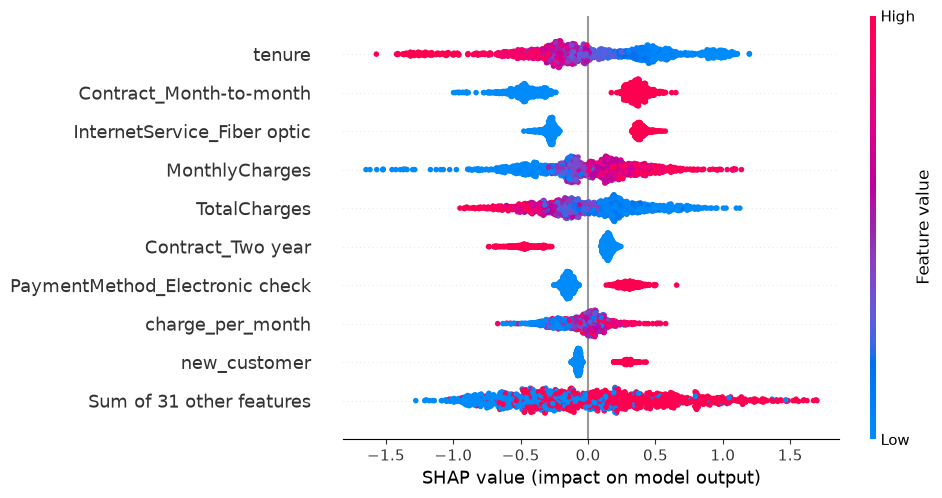
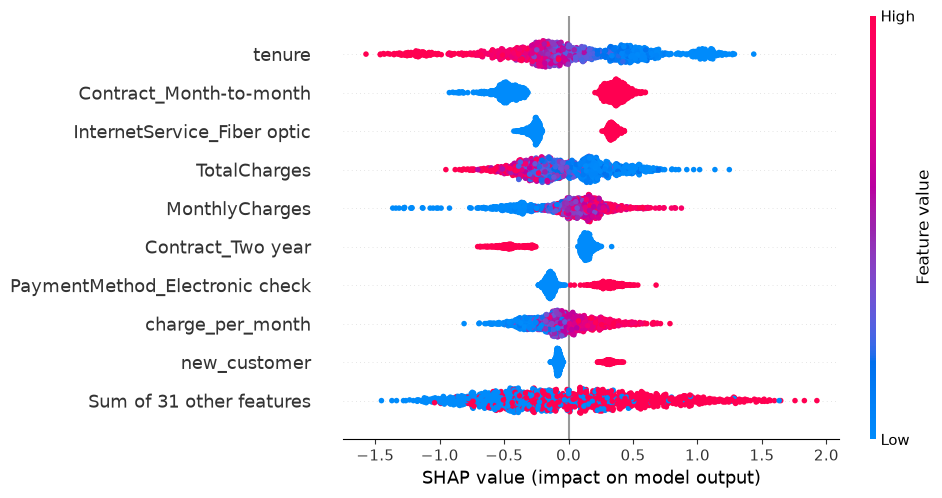
day 4: rerun with fixed charge_per_month feature

diff --git a/docs/explainability.md b/docs/explainability.md
@@ -19,12 +19,12 @@ I made 4 features and tested each one on CatBoost (base score 0.656).
 | new_customer | 1 if tenure is 6 months or less | 0.656 | keep |
 | monthly_x_contract | MonthlyCharges if contract is month-to-month, else 0 | 0.655 | drop |
 
-With both kept features together the score was 0.657. The change is very small (smaller than the std), so the new features almost didn't help. CatBoost already learns these patterns by itself.
+With both kept features together the score was 0.659. The change is very small (smaller than the std), so the new features almost didn't help. CatBoost already learns these patterns by itself.
 
 ## 3. Best model
 
 | Model | PR-AUC |
-| CatBoost + 2 features | 0.657 |
+| CatBoost + 2 features | 0.659 |
 | Logistic Regression | 0.662 |
 
 Logistic Regression was still the best, so it is saved in `models/best_model.joblib` with its config in `models/best_model_config.json` (C = 1.96, threshold = 0.16).
@@ -44,25 +44,25 @@ Each dot is one test customer. Dots on the right push churn up, dots on the left
 - **Two year contract** pushes churn down a lot.
 - **Electronic check** payment pushes churn up.
 
-## 5. SHAP local explanations (CatBoost, threshold 0.12)
+## 5. SHAP local explanations (CatBoost, threshold 0.14)
 
-### False positive (test row 1, churn prob 0.95, customer stayed)
+### False positive (test row 1, churn prob 0.92, customer stayed)
 
 ![False positive](plots/shap_false_positive.png)
 
 This customer had almost every risk sign: only 8 months tenure, a very high bill (100), month-to-month contract, fiber optic and senior citizen. So the model was very sure. But the customer stayed, maybe because they were happy with the service. This mistake is cheap, it only costs one offer.
 
-### False negative (test row 61, churn prob 0.01, customer left)
+### False negative (test row 61, churn prob 0.02, customer left)
 
 ![False negative](plots/shap_false_negative.png)
 
 This customer looked very safe: very low bill (20), 45 months tenure, not month-to-month and no internet service. Only electronic check pushed the risk up a little. They still left, so the reason was probably something that is not in our data, like moving or a better offer from another company.
 
-### True positive (test row 9, churn prob 0.38, customer left)
+### True positive (test row 9, churn prob 0.46, customer left)
 
 ![True positive](plots/shap_true_positive.png)
 
-Electronic check and month-to-month contract pushed the risk up. The probability was 0.38, which is above our threshold of 0.12, so the model caught this customer. With the default threshold of 0.5 this customer would have been missed.
+Electronic check and month-to-month contract pushed the risk up. The probability was 0.46, which is above our threshold of 0.14, so the model caught this customer. With the default threshold of 0.5 this customer would have been missed.
 
 ## 6. Why customers churn (for the business)
 
@@ -80,4 +80,4 @@ Some customers leave for reasons we can't see in the data, so the model cannot p
 It is calculated on the training data, so it can give importance to features the model only memorized. It also gives more importance to columns with many different values, like TotalCharges, even if they are not really more useful. Permutation importance on validation data can give a more useful picture of how much a feature actually helps predictions.
 
 **When would you pick a simpler model over a slightly more accurate boosted one?**
-When the performance difference is very small, the simpler model is easier to explain, faster and easier to maintain. In this case Logistic Regression (0.662) was better than CatBoost (0.657), so I selected Logistic Regression.
+When the performance difference is very small, the simpler model is easier to explain, faster and easier to maintain. In this case Logistic Regression (0.662) was better than CatBoost (0.659), so I selected Logistic Regression.
